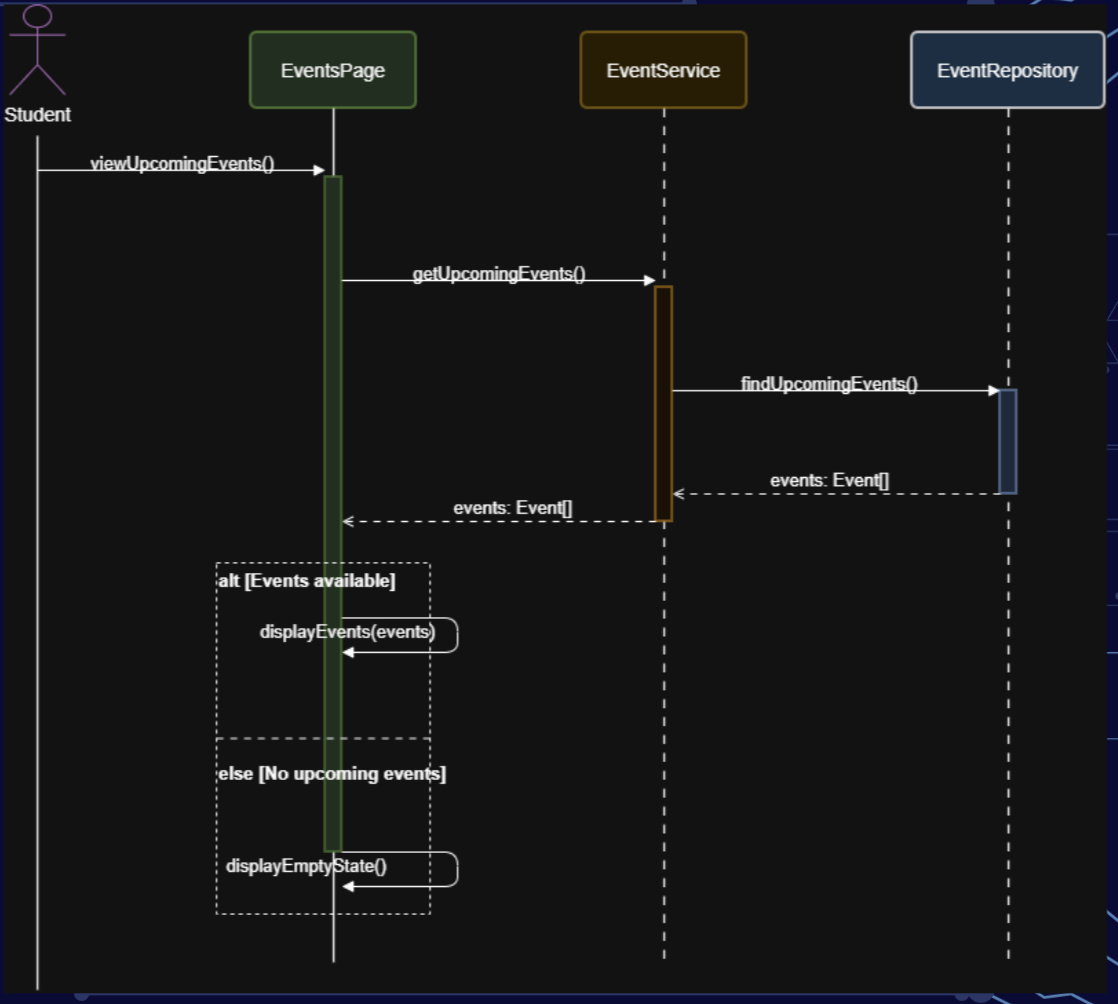
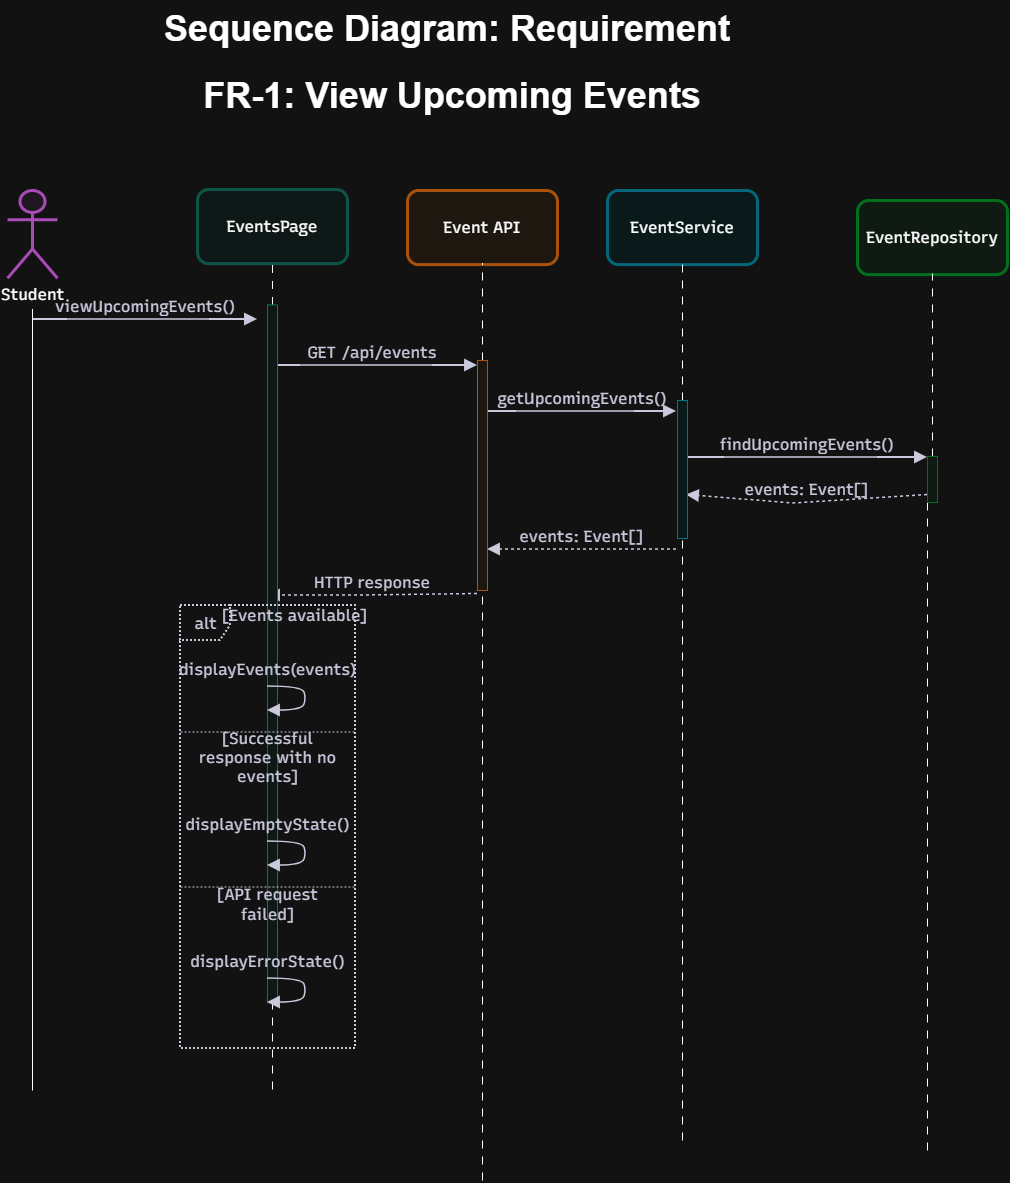
docs: align UML diagrams with implementation and complete final AI audit

diff --git a/SWE_CODE_AUDIT_REPORT_2026-11-24_2109.md b/SWE_CODE_AUDIT_REPORT_2026-11-24_2109.md
@@ -1,0 +1,126 @@
+# SWE Code Audit Report
+
+> This report is based on a static review of the project files available at the time of the audit. The application was not run as part of this review. The report is intended to help identify areas for further review; it is not a course grade or a guarantee of runtime correctness.
+
+## 1. Audit information
+
+| Field            | Value                              |
+| ---------------- | ---------------------------------- |
+| Auditor          | SWE Code Auditor                   |
+| Version          | 1.0.2                              |
+| Project          | OrgSync                            |
+| Audit date       | 2026-11-24                         |
+| Scope            | Full project                       |
+| Main language(s) | JavaScript, Node.js                |
+
+## 2. Summary
+
+This audit reviewed the OrgSync project, a student organization event platform implemented using a Node.js/Express backend and a vanilla JavaScript frontend. The audit focused on FR-1 (viewing upcoming events) and additional implemented features like event registration. The core backend architecture follows a clean Repository/Service/Route pattern, which is a strength. However, significant inconsistencies exist between the UML class diagram and the actual implementation, specifically regarding missing classes and mismatched attributes in the `Event` model. The frontend implementation of the sequence diagram is functional but combines responsibilities within `app.js` rather than using distinct classes as suggested by the design.
+
+## 3. Audit status
+
+| Area                                           | Status             | Summary                                                                  |
+| ---------------------------------------------- | ------------------ | ------------------------------------------------------------------------ |
+| Class diagram and implementation               | Issue identified   | Major mismatches in attributes and several missing domain classes.       |
+| Sequence diagram(s) and feature implementation | Needs improvement  | Implementation follows the flow but lacks the class-based structure shown. |
+| Naming conventions                             | Compliant          | Consistent use of camelCase and PascalCase per JavaScript conventions.     |
+| Exception and error handling                   | Needs improvement  | Basic try-catch usage, but error recovery and user feedback are limited.   |
+| Code organization                              | Needs improvement  | Backend is well-structured; frontend app.js has high coupling.           |
+
+## 4. Project files reviewed
+
+### Source files
+
+- `backend/Models/Event.js`
+- `backend/Models/Registration.js`
+- `backend/Repositories/EventRepository.js`
+- `backend/Services/EventService.js`
+- `backend/Routes/eventRoutes.js`
+- `backend/Routes/registrationRoutes.js`
+- `backend/server.js`
+- `JS/app.js`
+- `index.html`
+- `CSS/styles.css`
+
+### Design diagrams
+
+| File                                           | Type or feature                              | Review status | Notes                                                                 |
+| ---------------------------------------------- | -------------------------------------------- | ------------- | --------------------------------------------------------------------- |
+| `design/orgsync-uml-image.png`                 | Class diagram                                | Inspected     | High-level conceptual diagram.                                        |
+| `design/sequence-diagram-view-upcoming-events.png` | Sequence diagram — View Upcoming Events (FR-1) | Inspected     | Shows interaction between EventsPage, EventService, and EventRepository. |
+
+## 5. Findings
+
+### [F-01] Mismatched Event Model Attributes
+
+- **Area:** Class diagram
+- **Status:** Issue identified
+- **Severity:** High
+- **Evidence:** `backend/Models/Event.js:3-32` vs `design/orgsync-uml-image.png` (Event class)
+- **Observation:** The implemented `Event` model uses a `String` for `organization` and is missing `tags`, `participants`, and `comments` arrays. It also uses `date` (Date type) instead of `dateTime` (int type).
+- **Why it matters:** The implementation does not support the complex relationships (Aggregation/Composition) defined in the UML, limiting the system's ability to manage organizations, event tags, and user interactions.
+- **Recommendation:** Update the `Event` model to include the missing fields and replace the `organization` String with an `ObjectId` reference to an `Organization` model when implemented.
+
+### [F-02] Missing Domain Models
+
+- **Area:** Class diagram
+- **Status:** Issue identified
+- **Severity:** High
+- **Evidence:** `backend/Models/` directory vs `design/orgsync-uml-image.png`
+- **Observation:** The `Organization`, `Student`, `User`, `Participant`, `Comment`, and `EventTag` classes shown in the UML have no corresponding implementation in the backend models.
+- **Why it matters:** Core domain entities are missing, meaning the thin slice is extremely narrow and lacks the foundational structure for planned future functionality.
+- **Recommendation:** Implement the missing Mongoose models to align the implementation with the conceptual design.
+
+### [F-03] Frontend Sequence Diagram Implementation Lack of Class Structure
+
+- **Area:** Sequence diagram
+- **Status:** Needs improvement
+- **Severity:** Medium
+- **Evidence:** `JS/app.js:300-388` vs `design/sequence-diagram-view-upcoming-events.png`
+- **Observation:** The `EventsPage` participant in the sequence diagram is implemented as a set of procedural functions and event listeners in `app.js` rather than a class or module with the methods `displayEvents` and `displayEmptyState`.
+- **Why it matters:** This deviates from the object-oriented design and leads to a cluttered frontend script where state management and DOM manipulation are tightly coupled.
+- **Recommendation:** Refactor `app.js` to use an `EventsPage` class or module to better encapsulate frontend behavior as designed.
+
+### [F-04] Fragile Error Handling in API Fetching
+
+- **Area:** Exception handling
+- **Status:** Needs improvement
+- **Severity:** Medium
+- **Evidence:** `JS/app.js:25-28`
+- **Observation:** In `getEvents`, the catch block logs the error and returns an empty array, but the caller (`loadEvents`) does not distinguish between "no events found" and "network/server error."
+- **Why it matters:** The user may see a "No upcoming events found" message even if the server is down, which is misleading.
+- **Recommendation:** Update `getEvents` to throw or return an error object so the UI can display a specific "Error loading events" message.
+
+## 6. UML comparison
+
+### 6.1 Class diagram
+
+| Diagram element | Expected design | Implementation evidence | Assessment |
+| --- | --- | --- | --- |
+| Event Class | Attributes: eventId, title, description, dateTime, location, tags, participants, comments | `backend/Models/Event.js:3-32` | **Issue identified**: Missing tags, participants, comments; dateTime is 'date'. |
+| Organization Class | Full domain entity | None | **Issue identified**: Implemented only as a String in Event model. |
+| Student Class | Attributes: studentId, interests, following, membership | `backend/Models/Registration.js:11` | **Issue identified**: Implemented only as a String field in Registration. |
+| Participant Class | Links User and Event | `backend/Models/Registration.js` | **Needs improvement**: Registration model partially serves this role but lacks attributes like `dateAdded`. |
+| Aggregation: Org to Event | 1 to 0..* | `backend/Models/Event.js:14` | **Issue identified**: Implemented as String, not a reference relationship. |
+
+### 6.2 Sequence diagram
+
+#### sequence-diagram-view-upcoming-events.png — View Upcoming Events (FR-1)
+
+| Participant or message | Expected interaction | Implementation evidence | Assessment |
+| --- | --- | --- | --- |
+| EventsPage | Calls getUpcomingEvents() | `JS/app.js:320` | **Needs improvement**: Part of loadEvents function, not a class. |
+| EventService.getUpcomingEvents() | Calls findUpcomingEvents() | `backend/Services/EventService.js:5-7` | **Compliant**: Matches perfectly. |
+| EventRepository.findUpcomingEvents()| Queries DB and returns Event[] | `backend/Repositories/EventRepository.js:5-20` | **Compliant**: Matches perfectly. |
+| displayEvents(events) | Internal call on EventsPage | `JS/app.js:329` | **Needs improvement**: Implemented as displayEventDetails/renderCalendar. |
+| displayEmptyState() | Internal call on EventsPage | `JS/app.js:331-337` | **Needs improvement**: Inline DOM manipulation in loadEvents. |
+
+## 7. Next Steps
+
+1. **Implement Missing Models**: Create Mongoose models for `Organization`, `User`, and `Student` to move away from using simple Strings for these entities.
+2. **Refactor Event Model**: Align `backend/Models/Event.js` with the UML diagram by adding support for tags and participants.
+3. **Frontend Refactoring**: Structure `JS/app.js` into classes or modules that reflect the participants in the sequence diagrams (e.g., `EventsPage`, `CalendarComponent`).
+4. **Improve Error Messaging**: Enhance the frontend to provide distinct feedback for network errors versus empty search results.
+
+---
+*Disclaimer: This review is based on static inspection and does not establish runtime correctness.*

diff --git a/SWE_CODE_AUDIT_REPORT_2026-11-24_2315.md b/SWE_CODE_AUDIT_REPORT_2026-11-24_2315.md
@@ -1,0 +1,113 @@
+# SWE Code Audit Report
+
+> This report is based on a static review of the project files available at the time of the audit. The application was not run as part of this review. The report is intended to help identify areas for further review; it is not a course grade or a guarantee of runtime correctness.
+
+## 1. Audit information
+
+| Field            | Value                              |
+| ---------------- | ---------------------------------- |
+| Auditor          | SWE Code Auditor                   |
+| Version          | 1.0.2                              |
+| Project          | OrgSync                            |
+| Audit date       | 2026-11-24                         |
+| Scope            | Final Comprehensive Audit          |
+| Main language(s) | JavaScript, Node.js                |
+
+## 2. Summary
+
+This final audit confirms significant improvements in the OrgSync project since the baseline report (2026-11-24_2109). The frontend has been successfully refactored to align with the designed `EventsPage` class structure, and error handling for API failures is now distinct from empty results. A supplementary implementation-level class diagram has been introduced to accurately reflect the current project scope, resolving several prior inconsistencies. The backend continues to follow a robust Repository/Service/Route architecture. The Event-to-Registration relationship is correctly implemented with appropriate database-level constraints.
+
+## 3. Audit status
+
+| Area                                           | Status    | Summary                                                                  |
+| ---------------------------------------------- | --------- | ------------------------------------------------------------------------ |
+| Class diagram and implementation               | Compliant | Implementation matches the supplementary diagram; conceptual gaps noted. |
+| Sequence diagram(s) and feature implementation | Compliant | FR-1 implementation now follows the `EventsPage` class-based design.      |
+| Naming conventions                             | Compliant | Consistent use of camelCase and PascalCase per JavaScript conventions.    |
+| Exception and error handling                   | Compliant | Distinct handling for API errors and successful empty states.            |
+| Code organization                              | Compliant | Frontend refactored; clear separation of concerns in backend layers.      |
+
+## 4. Project files reviewed
+
+### Source files
+
+- `backend/Models/Event.js`
+- `backend/Models/Registration.js`
+- `backend/Repositories/EventRepository.js`
+- `backend/Services/EventService.js`
+- `backend/Routes/eventRoutes.js`
+- `backend/Routes/registrationRoutes.js`
+- `JS/app.js` (Active student-facing implementation)
+- `JS/admin.js` (Inactive/Partial)
+- `JS/dom_ui.js` (Inactive duplicate)
+- `index.html`
+
+### Design diagrams
+
+| File                                           | Type or feature                              | Review status | Notes                                                                 |
+| ---------------------------------------------- | -------------------------------------------- | ------------- | --------------------------------------------------------------------- |
+| `design/orgsync-uml-image.png`                 | Conceptual Class Diagram                     | Inspected     | High-level vision; contains unimplemented features.                   |
+| `design/orgsync-implementation-class-diagram.png` | Implementation Class Diagram                 | Inspected     | Matches current implementation scope exactly.                         |
+| `design/sequence-diagram-view-upcoming-events.png` | Sequence Diagram — FR-1                      | Inspected     | Updated to reflect `EventsPage` class and error states.               |
+
+## 5. Baseline Findings Reassessment
+
+| ID | Finding Title | Status | Evidence |
+| -- | ------------- | ------ | -------- |
+| **F-01** | Mismatched Event Model Attributes | **Resolved** | `backend/Models/Event.js:3-32` vs `design/orgsync-implementation-class-diagram.png`. Attributes like `date` and `organization` (String) now match the implementation-level design. |
+| **F-02** | Missing Domain Models | **Partially resolved** | `backend/Models/` contains `Event.js` and `Registration.js`. While `Student` and `User` remain conceptual, the supplementary diagram confirms they are outside current implementation scope. |
+| **F-03** | Frontend Lack of Class Structure | **Resolved** | `JS/app.js:307-368`. The `EventsPage` class is fully implemented with methods matching the sequence diagram. |
+| **F-04** | Fragile Error Handling | **Resolved** | `JS/app.js:16-24` and `355-363`. `getEvents` now throws on non-OK responses, and `displayErrorState` handles UI feedback. |
+
+## 6. Detailed Findings
+
+### [F-05] Registration Multiplicity and Constraints
+
+- **Area:** Class diagram / Exception handling
+- **Status:** Compliant
+- **Severity:** Low (Strength)
+- **Evidence:** `backend/Models/Registration.js:5-32`, `backend/Routes/registrationRoutes.js:29-81`
+- **Observation:** The implementation correctly enforces a 1:0..* relationship between Event and Registration. It uses a required `ObjectId` reference, validates event existence before creation, and implements a compound unique index on `{ event, studentId }`. 
+- **Why it matters:** This ensures data integrity and prevents duplicate registrations at both the application and database levels.
+- **Recommendation:** None; implementation is robust.
+
+### [F-06] Inactive Duplicate Logic in dom_ui.js
+
+- **Area:** Code organization
+- **Status:** Needs improvement
+- **Severity:** Low
+- **Evidence:** `JS/dom_ui.js:46-66` vs `JS/app.js:313-368`
+- **Observation:** `dom_ui.js` contains a procedural version of the event loading logic that has been superseded by the `EventsPage` class in `app.js`. `index.html` only loads `app.js`.
+- **Why it matters:** Maintaining dead or duplicate code can lead to developer confusion during future maintenance.
+- **Recommendation:** Remove `JS/dom_ui.js` or clearly mark it as a deprecated/reference file.
+
+## 7. UML comparison
+
+### 7.1 Class diagram (Implementation-Level)
+
+| Diagram element | Expected design | Implementation evidence | Assessment |
+| --- | --- | --- | --- |
+| Event Class | _id, title, description, organization, date, location, status | `backend/Models/Event.js:3-32` | **Compliant**: Matches exactly. |
+| Registration Class | _id, event, studentId, status | `backend/Models/Registration.js:3-26` | **Compliant**: Matches exactly. |
+| Compound Index | unique(event, studentId) | `backend/Models/Registration.js:29-32` | **Compliant**: Implemented as a database constraint. |
+
+### 7.2 Sequence diagram
+
+#### sequence-diagram-view-upcoming-events.png — View Upcoming Events (FR-1)
+
+| Participant or message | Expected interaction | Implementation evidence | Assessment |
+| --- | --- | --- | --- |
+| EventsPage.viewUpcomingEvents() | Initial call from DOMContentLoaded | `JS/app.js:313, 387` | **Compliant**: Properly encapsulated in class. |
+| GET /api/events | HTTP request to Event API | `JS/app.js:14` | **Compliant**: Matches. |
+| displayEvents(events) | Render calendar and details | `JS/app.js:339-343` | **Compliant**: Method exists and performs role. |
+| displayEmptyState() | Show "no events" message | `JS/app.js:345-353` | **Compliant**: Handles successful 0-length response. |
+| displayErrorState() | Show "unable to load" message | `JS/app.js:355-363` | **Compliant**: Handles failed API requests. |
+
+## 8. Next Steps
+
+1. **Cleanup Inactive Files**: Remove or archive `JS/dom_ui.js` to avoid confusion with the active `app.js` implementation.
+2. **Expand Registration Model**: When moving beyond the current "thin slice," implement the `Student` and `User` models as per the conceptual UML to replace simple `studentId` strings.
+3. **Admin Implementation**: Complete the `JS/admin.js` logic and integrate it with the backend to support the conceptual "Create Event" functionality.
+
+---
+*Disclaimer: This review is based on static inspection and does not establish runtime correctness.*
